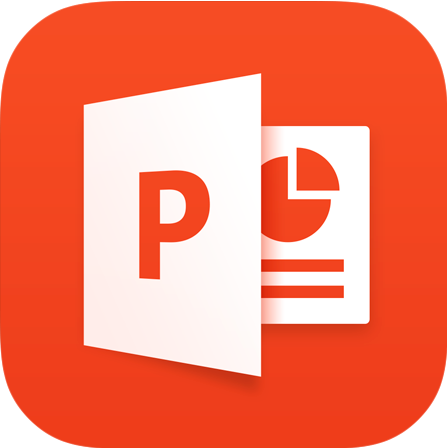
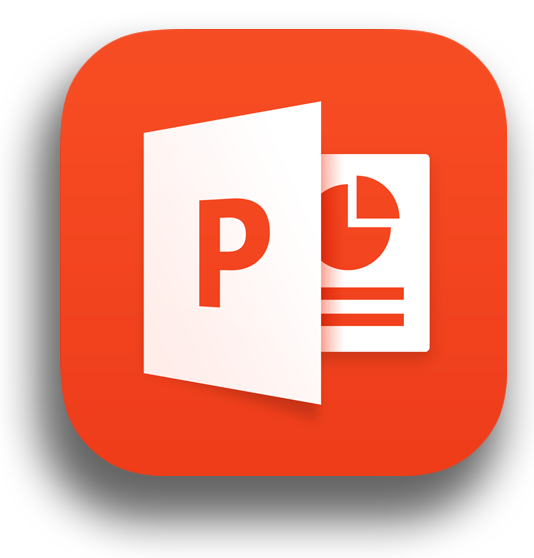
아이콘이미지추가

diff --git a/index.css b/index.css
@@ -371,7 +371,7 @@ main .box > li {width: 200px; height: 200px; background-color: #ff00c1; display:
 #content_4 > .icon > img {transition: all .5s ease;}
 #content_4 > .photo {top: 100px; left: 200px;}
 #content_4 > .illust {top: 200px; left: 500px; animation-duration: 3s;}
-#content_4 > .ppt {box-shadow: -5px 10px 25px #000; border-radius: 30px; width: 110px; height: 110px; top: 400px; left: 300px; animation-duration: 3.5s;}
+#content_4 > .ppt {top: 400px; left: 300px; animation-duration: 3.5s;}
 #content_4 > .html {top: 170px; left: 850px; animation-duration: 5.4s;}
 #content_4 > .css {top: 450px; left: 750px;}
 #content_4 > .js {top: 300px; left: 1150px; animation-duration: 3s;}
